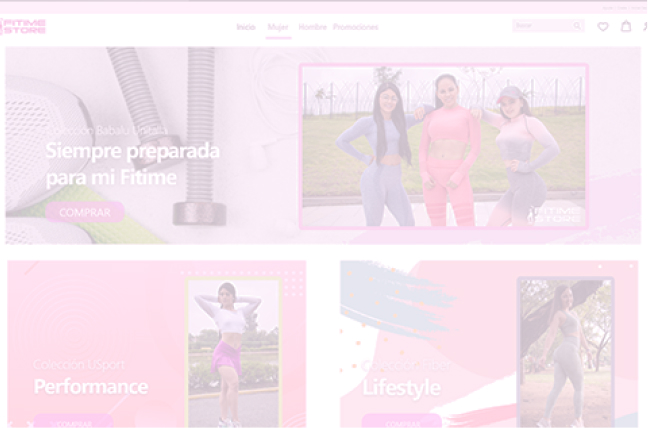
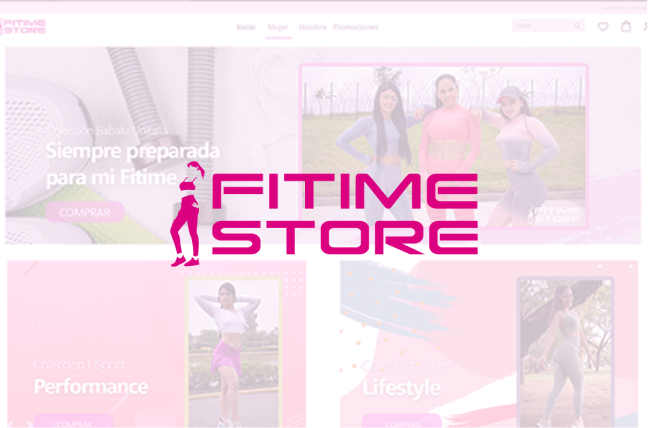
Creating just one image for each project

Changed region(s): [[0.2469, 0.3645, 0.7407, 0.6379]]

diff --git a/src/consts/projects.ts b/src/consts/projects.ts
@@ -1,7 +1,6 @@
 export interface Project {
 	id: string
 	title: string
-	logo: string
 	cta: string
 	url: string
 }
@@ -10,21 +9,18 @@ export const PROJECTS: Project[] = [
     {
         id: "Nomi",
         title: "Nomi - Payroll Services",
-        logo: "./src/assets/projects/Logo_Nomi.png",
         cta: "Visit website",
         url: "https://nomi.mx/"
     },
     {
         id: "MontesCorp",
         title: "Montes Corp",
-        logo: "./src/assets/projects/Logo_MontesCorp.png",
         cta: "Visit website",
         url: "https://www.figma.com/file/eq9LJtDx4omKtaZ67fpLnN/Montes-Corp-Website?type=design&node-id=148%3A162&mode=design&t=TSUGjQ51v77Bz4nM-1"
     },
     {
         id: "FitimeStore",
         title: "Fitime Store",
-        logo: "./src/assets/projects/Logo_FitimeStore.png",
         cta: "Visit project",
         url: "https://www.behance.net/gallery/117843071/UI-para-Web-Fitime-Store"
     },
